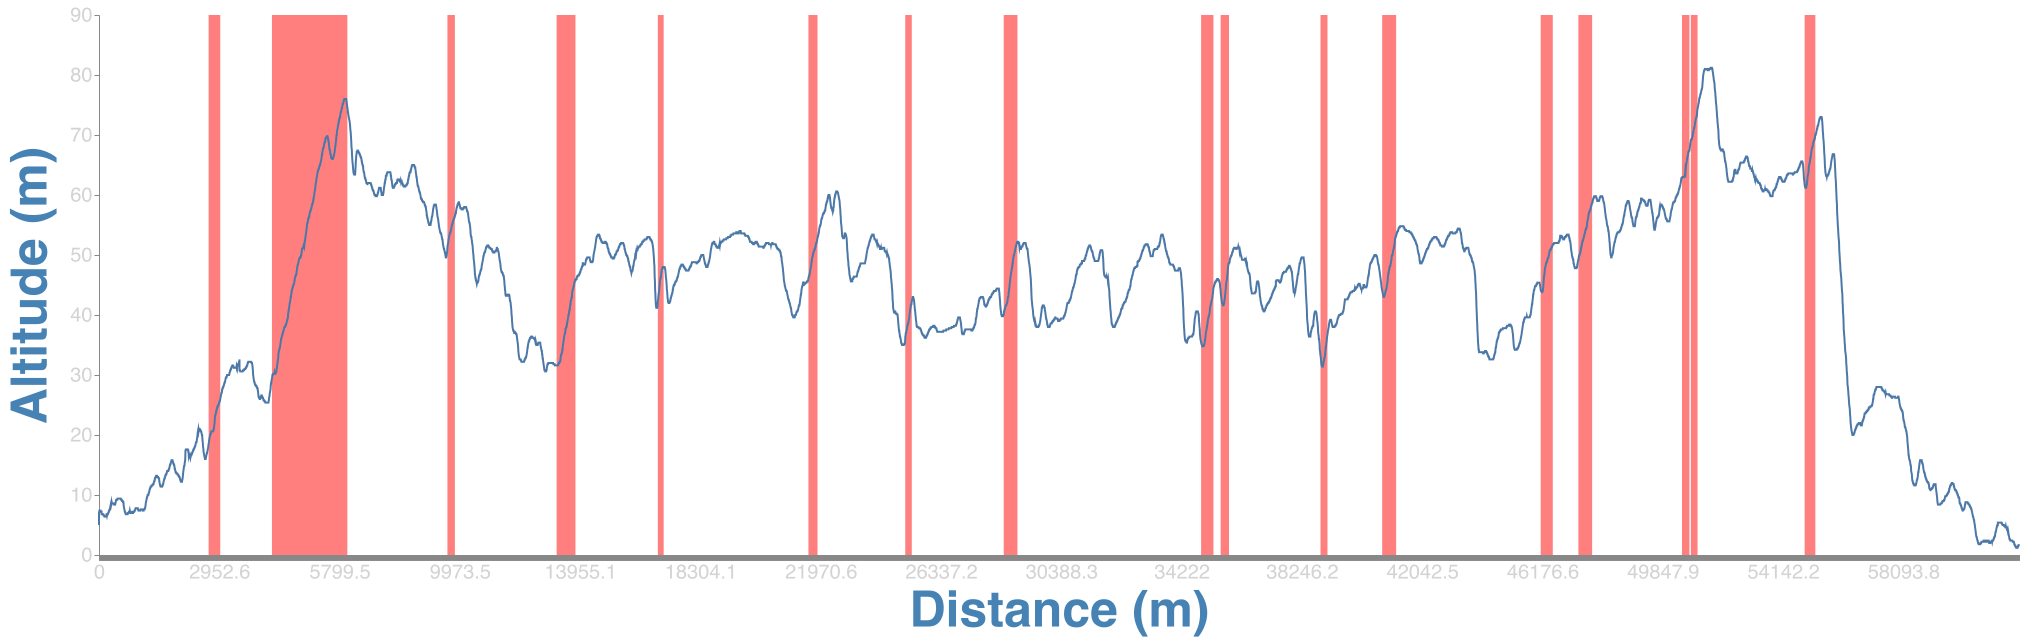
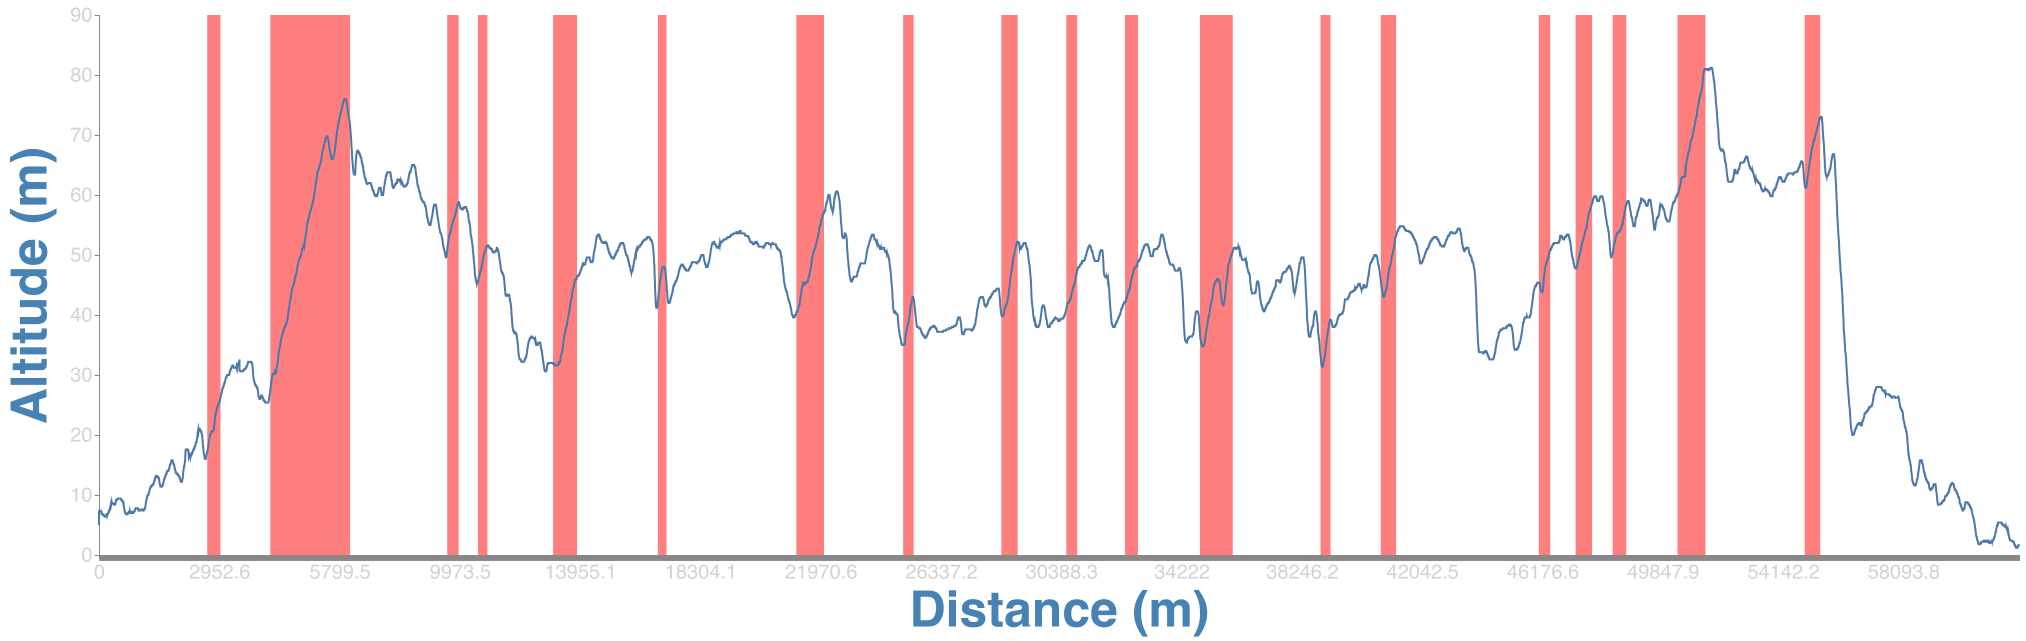
I played with the vlaues until visually all the hills I wanted were found

diff --git a/src/rideClassifier.js b/src/rideClassifier.js
@@ -206,9 +206,10 @@ function getAverageUphillGradient(ride) {
  * @returns {Array} - Array of hillEntries found in the ride
  */
 function findHills(ride) {
-	const MIN_GRADE = 0.03;
-	const MIN_DISTANCE = 200;
+	const MIN_GRADE = 0.02;
+	const MIN_DISTANCE = 300;
 	const MAX_FALSE_FLAT_DISTANCE = 200;
+	const SEARCH_INCREMENT = 50;
 
 	let hills = [];
 
@@ -230,7 +231,11 @@ function findHills(ride) {
 	 *   average speed, and average watts for each hill
 	 * - Repeat for downhills
 	 */
-	for (let i = 0; i < ride.distance_stream.data.length; i++) {
+	for (
+		let i = 0;
+		i < ride.distance_stream.data.length;
+		i = getIdxOfPointXMetersAhead(ride, i, SEARCH_INCREMENT)
+	) {
 		let hillStart = i;
 		let idxMinDistMetersAhead = getIdxOfPointXMetersAhead(
 			ride,
@@ -262,7 +267,7 @@ function findHills(ride) {
 		for (
 			let j = idxMinDistMetersAhead;
 			!hillEndFound && j < ride.distance_stream.data.length;
-			j = getIdxOfPointXMetersAhead(ride, j, 50)
+			j = getIdxOfPointXMetersAhead(ride, j, SEARCH_INCREMENT)
 		) {
 			let segmentGrade =
 				(ride.altitude_stream.data[
